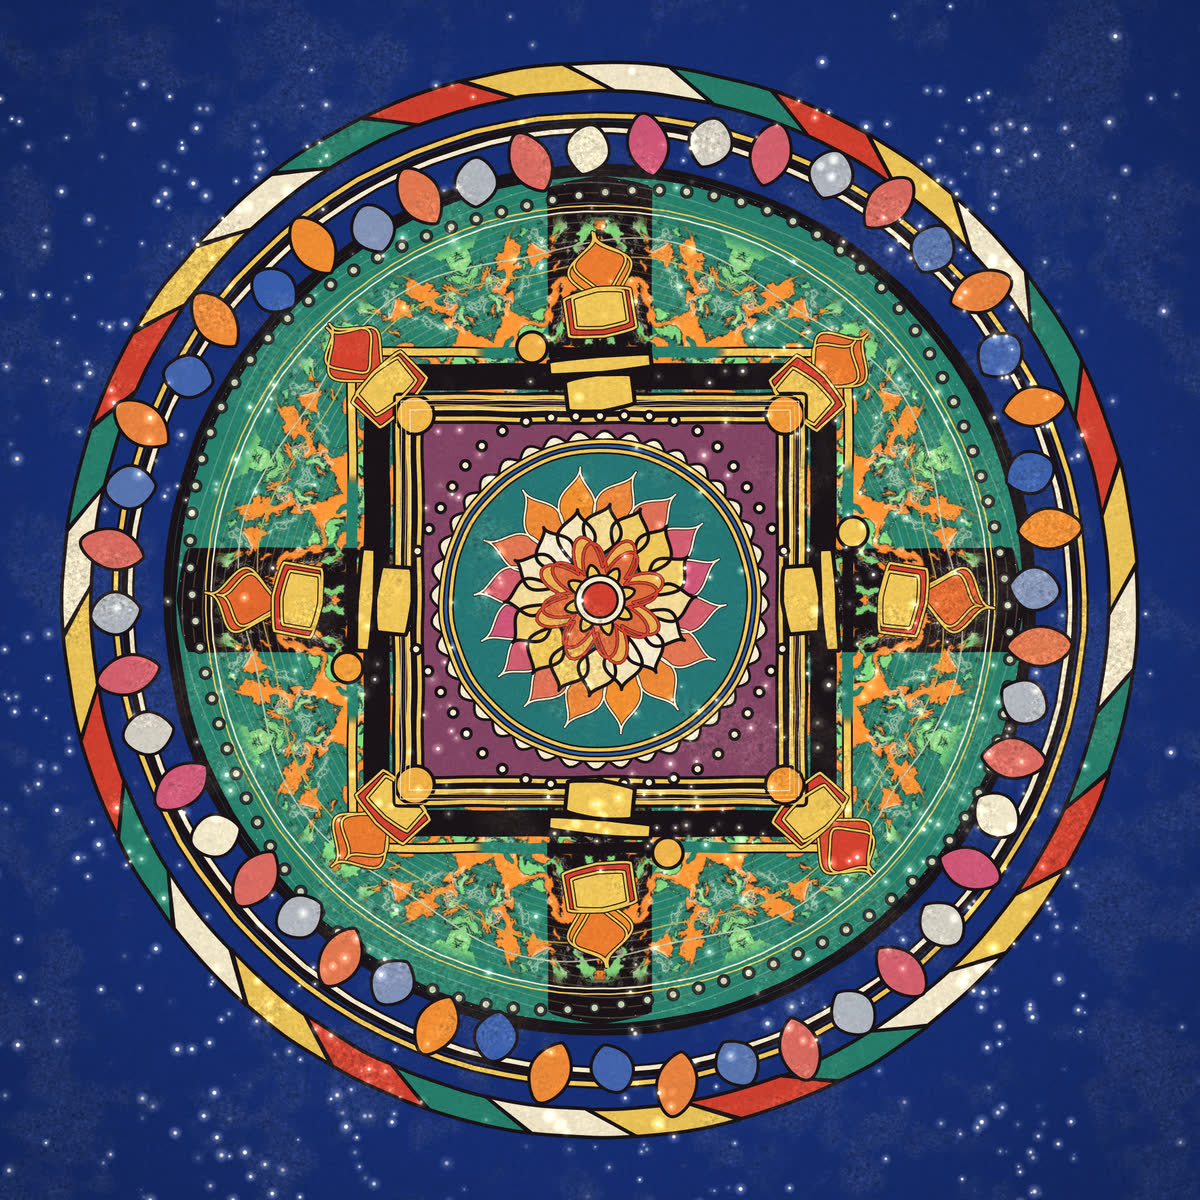
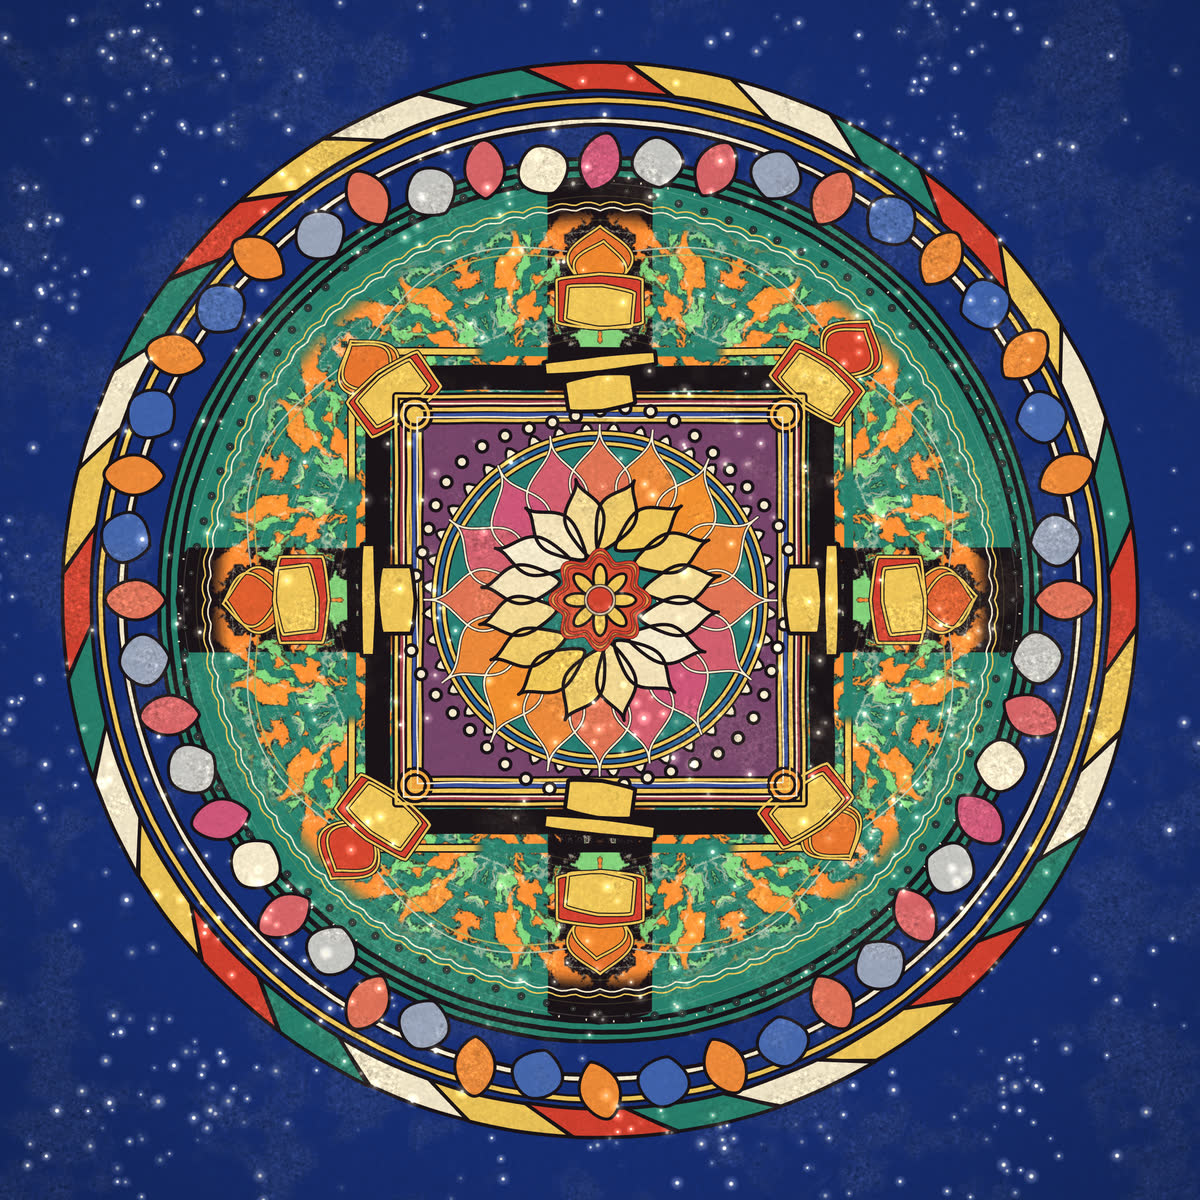
mandala: "Serenity and Beauty", short description, poster matched to the cover video
- title and a three-sentence description of how it works in TouchDesigner
- cover jpg is now frame 0 of the 10 s cover loop (same Loop state, Grain
  0) so the site's hover video starts on the poster without a jump
- platform seed data regenerated

diff --git a/specimens/generative/mandala.prompt.md b/specimens/generative/mandala.prompt.md
@@ -1,4 +1,4 @@
-# Thangka Mandala
+# Serenity and Beauty
 
 A Tibetan-thangka mandala drawn entirely from POP geometry: a green field disc, veined with
 concentric rippling rosette lines that breathe and drift together, inside a
